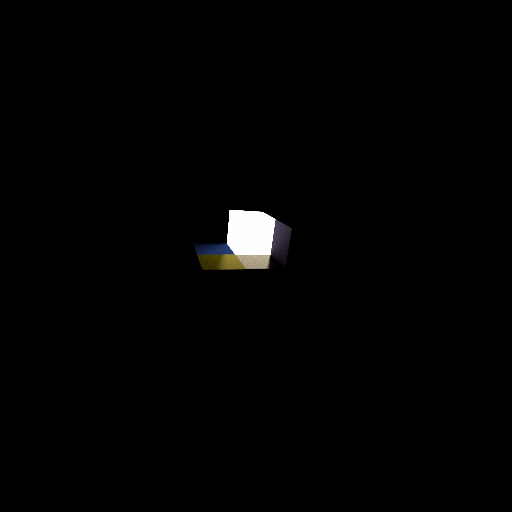
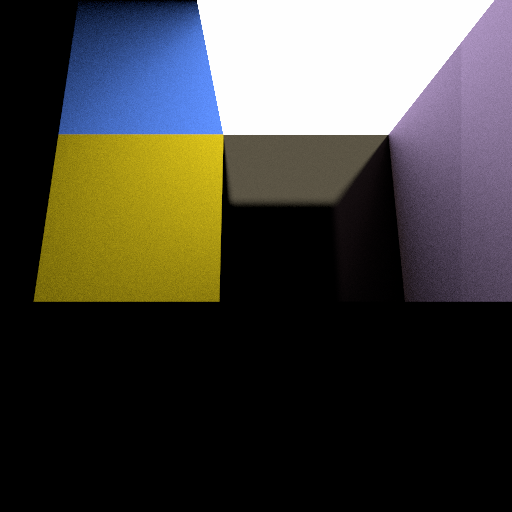
NICE. but slow. oh and there is a clipping bug

diff --git a/src/bin.rs b/src/bin.rs
@@ -171,8 +171,8 @@ fn cast_ray_voxel<'a>(
     }
 }
 
-const RPP: usize = 200;
-const RBC: usize = 4;
+const RPP: usize = 500;
+const RBC: usize = 3;
 const EMISSION: f64 = 15.0;
 
 fn cast_pixel(
@@ -297,8 +297,8 @@ fn main() {
     let width: usize = 512;
     let height: usize = 512;
 
-    let campos = new_vec(-0.7, -0.8, -1.8);
-    let camrot = new_vec(-20.0, 20.0, 0.0);
+    let mut campos = new_vec(-0.2, -0.6, -0.5);
+    let mut camrot = new_vec(-80.0, 0.0, 0.0);
     let rotation = Quaternion::from(Euler {
         x: Deg(camrot.x),
         y: Deg(camrot.y),
@@ -1175,15 +1175,18 @@ void main() {
             z: 1.0,
         };
 
-    let push_constants = cs::ty::pushConstants {
-        campos: [campos.x, campos.y, campos.z],
-        right: [right.x, right.y, right.z],
-        up: [up.x, up.y, up.z],
-        forward: [forward.x, forward.y, forward.z],
-        _dummy0: [0; 8],
-        _dummy1: [0; 8],
-        _dummy2: [0; 8],
-    };
+    fn gen_push_const(campos : Vector3<f64>, right : Vector3<f64>, up : Vector3<f64>, forward : Vector3<f64>) -> cs::ty::pushConstants{
+        let push_constants = cs::ty::pushConstants {
+            campos: [campos.x, campos.y, campos.z],
+            right: [right.x, right.y, right.z],
+            up: [up.x, up.y, up.z],
+            forward: [forward.x, forward.y, forward.z],
+            _dummy0: [0; 8],
+            _dummy1: [0; 8],
+            _dummy2: [0; 8],
+        };
+        return push_constants;
+    }
 {
     let buf = CpuAccessibleBuffer::from_iter(
         device.clone(),
@@ -1199,7 +1202,7 @@ void main() {
             [(width / 8) as u32, (height / 8) as u32, RPP as u32],
             compute_pipeline.clone(),
             (set.clone()),
-            push_constants,
+            gen_push_const(campos, right, up, forward),
         )
         .unwrap()
         .dispatch(
@@ -1300,6 +1303,8 @@ void main() {
         // Specify the color to clear the framebuffer with i.e. blue
         let clear_values = vec![[0.0, 0.0, 1.0, 1.0].into()];
 
+        campos += forward / 1000.0;
+
         let command_buffer =
             AutoCommandBufferBuilder::primary_one_time_submit(device.clone(), queue.family())
             .unwrap()
@@ -1307,7 +1312,7 @@ void main() {
                 [(width / 8) as u32, (height / 8) as u32, RPP as u32],
                 compute_pipeline.clone(),
                 (set.clone()),
-                push_constants,
+                gen_push_const(campos, right, up, forward),
             )
             .unwrap()
             .dispatch(
